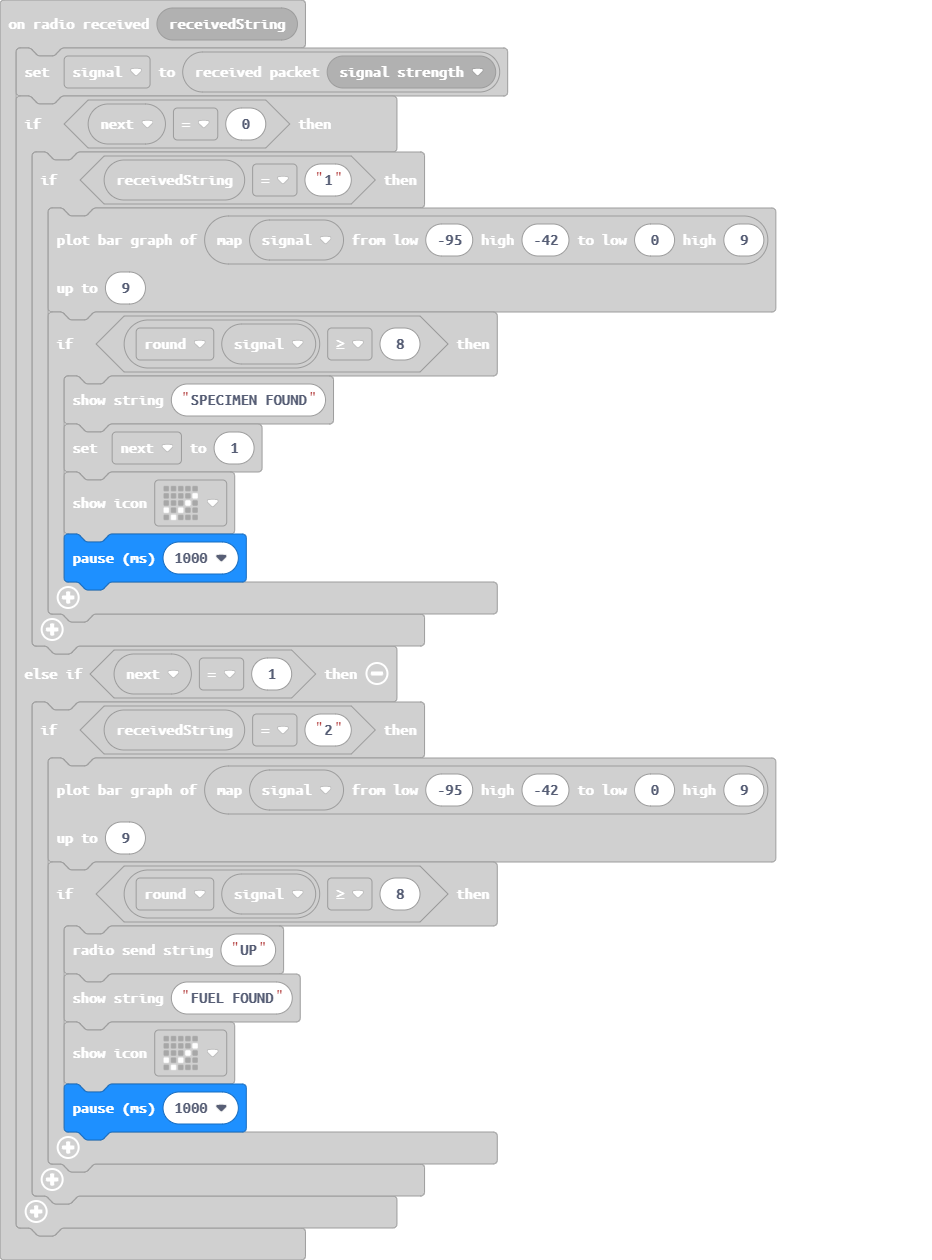
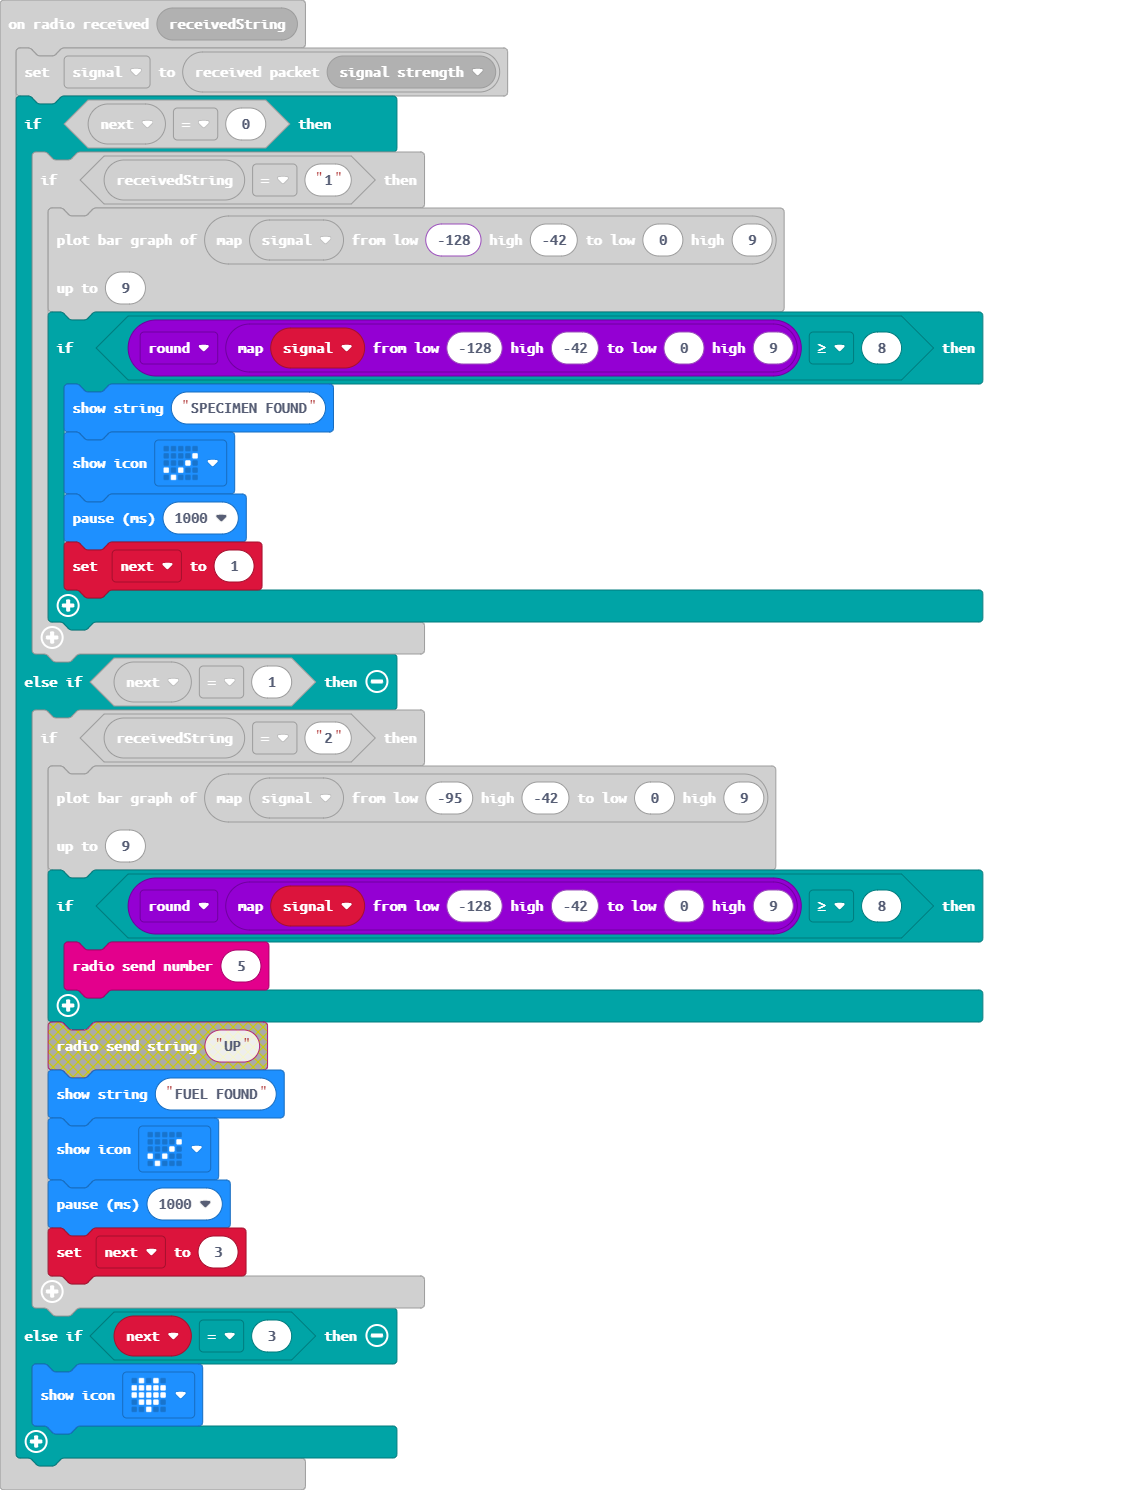
lot of changmeents

diff --git a/main.ts b/main.ts
@@ -3,14 +3,14 @@ radio.onReceivedString(function (receivedString) {
     if (next == 0) {
         if (receivedString == "1") {
             led.plotBarGraph(
-            Math.map(signal, -95, -42, 0, 9),
+            Math.map(signal, -128, -42, 0, 9),
             9
             )
-            if (Math.round(signal) >= 8) {
+            if (Math.round(Math.map(signal, -128, -42, 0, 9)) >= 8) {
                 basic.showString("SPECIMEN FOUND")
-                next = 1
                 basic.showIcon(IconNames.Yes)
                 basic.pause(1000)
+                next = 1
             }
         }
     } else if (next == 1) {
@@ -19,13 +19,16 @@ radio.onReceivedString(function (receivedString) {
             Math.map(signal, -95, -42, 0, 9),
             9
             )
-            if (Math.round(signal) >= 8) {
-                radio.sendString("UP")
+            if (Math.round(Math.map(signal, -128, -42, 0, 9)) >= 8) {
+                radio.sendNumber(5)
                 basic.showString("FUEL FOUND")
                 basic.showIcon(IconNames.Yes)
                 basic.pause(1000)
+                next = 3
             }
         }
+    } else if (next == 3) {
+        basic.showIcon(IconNames.Heart)
     }
 })
 let signal = 0
